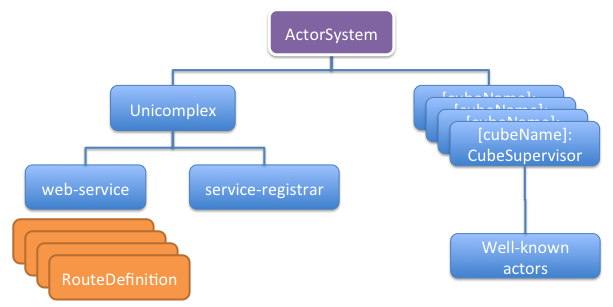
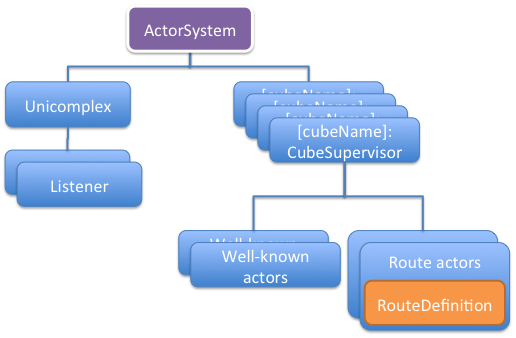
https://jirap.corp.ebay.com/browse/SQUBS-131: Completed documentation changes for singleton route support.

diff --git a/docs/actor-hierarchy.md b/docs/actor-hierarchy.md
@@ -9,12 +9,12 @@ squbs sets up the actor and component hierarchy shown in the above picture to su
 
 * **Unicomplex** - This is the core singleton actor that manages the squbs system. It registers all cubes and communicates with the web-service actor and the cube supervisors for lifecycle management of the system. It is also responsible for starting the web-service and service-registrar actors. Applications or system components can access the ActorRef of Unicomplex by calling `Unicomplex()`
 
-* **web-service** - The web service actor binds with `IO(HTTP)` in the Spray system. By default, it binds port 8080 on address 0.0.0.0 (any interface). However, this can be overridden in application.conf.
+* **Listeners** - The listener are actor that bind with `IO(HTTP)` in the Spray system. They carry the name of the configured listeners in `reference.conf` or `application.conf`. By default, the default-listener binds port 8080 on address 0.0.0.0 (any interface) without using https. However, this can be overridden in `application.conf`. Additional listeners can be configured in `reference.conf` or `application.conf` of the library or application, respectively.
 
-* **service-registrar** - The service registrar is in charge of registering new services. New services are represented by classes extending `RouteDefinition`. Upon registration of a new service, the service registrar will combine the new route with the current route and calculate a new aggregated route for the web service to use in subsequent requests. All registrations are asynchronous so a newly registered service may not get used immediately on subsequent requests. Normally, the timeframe for proper registration is within microseconds or milliseconds at most.
+* **RouteDefinition** - RouteDefinition is itself not an actor, but a route registration in form of a class extending the RouteDefinition trait. The routes in registered services (or RouteDefinitions) are executed by its corresponding route actor.
 
-* **RouteDefinition** - RouteDefinition is not an actor, but a route registration in form of a class extending the RouteDefinition trait. The routes in registered services (or RouteDefinitions) are executed in the context of the web-service actor. Any actors spawned off a route will therefore become a child actor of web-service and will have "web-service" in the actor path.
+* **Route actors** - Actors of type org.squbs.unicomplex.RouteActor created by the CubeSupervisor to host each RouteDefinition. Therefore they becomes children supervised by the corresponding CubeSupervisor they belong to. The route actors are automatically registered against all the listeners they are bound to, allowing request parts from the listener to be dispatched to the route actor.
 
-* **CubeSupervisors** - CubeSupervisors are created directly from the actor system and register themselves with the Unicomplex. One instance of the CubeSupervor is created per cube. They act as the supervisor for any registered (well-known) actor that can be looked up by name and handle errors and restarts for these actors. They are responsible for the lifecycle of these well-known actors. Well-known actors requiring initialization will declare such needs in the squbs-meta.conf file. They will communicate with their parent - the CubeSupervisor for their initialization status. The CubeSupervisor will again communicate lifecycle status and initialization updates to the Unicomplex which maintains the lifecycle state for the whole system. Please refer to [Bootstraping](bootstrap.md) for information about cube and service configuration entries in the squbs-meta.conf and [Runtime Lifecycle & API](lifecycle.md) for lifecycle states and lifecycle status updates. In addition, the cube structure also provides namespacing for well-known actors preventing naming conflicts between well-known actors supplied by differen cubes.
+* **CubeSupervisors** - CubeSupervisors are created directly from the actor system and register themselves with the Unicomplex. One instance of the CubeSupervor is created per cube. They act as the supervisor for any route actor and registered (well-known) actor that can be looked up by name and handle errors and restarts for these actors. They are responsible for the lifecycle of their children. Well-known actors requiring initialization will declare such needs in the squbs-meta.conf file. They will communicate with their parent - the CubeSupervisor for their initialization status. The CubeSupervisor will again communicate lifecycle status and initialization updates to the Unicomplex which maintains the lifecycle state for the whole system. Please refer to [Bootstraping](bootstrap.md) for information about cube and service configuration entries in the squbs-meta.conf and [Runtime Lifecycle & API](lifecycle.md) for lifecycle states and lifecycle status updates. In addition, the cube structure also provides namespacing for well-known actors preventing naming conflicts between well-known actors supplied by differen cubes. Route actors are technically equivalent to well known actors.
 
 * **Well-known actors** - These actors are registered actors that get started by the CubeSupervisor. They register and provide basic startup information such as routers through squbs-meta.conf. Please refer to [Bootstrapping](bootstrap.md) for detailed information about cube configuration. You can provide additional configuration through the cube's reference.conf. Please refer to the [Typesafe Config](https://github.com/typesafehub/config) library documentation for specification and details of reference.conf and application.conf.

diff --git a/docs/bootstrap.md b/docs/bootstrap.md
@@ -133,11 +133,7 @@ Router concepts, examples, and configuration, are documented in the
 
 ##Services
 
-Services extend from org.squbs.unicomplex.RouteDefinition trait and have to provide 2 components.
-
-1. The webContext - a String that uniquely identifies the web context of a request to be dispatched to this service.
-   This webContext must be a lowercase alphanumeric string without any slash ('/') character
-2. The route - A Spray route according to the
+Services extend from org.squbs.unicomplex.RouteDefinition trait, must not take any constructor arguments (zero-argument constructor) and have to provide the route member which is a Spray route according to the
    [Spray documentation](http://spray.io/documentation/1.3.1/spray-routing/key-concepts/routes/).
    
 Service metadata is declared in META-INF/squbs-meta.conf as shown in the following example.
@@ -148,12 +144,21 @@ cube-version = "0.0.2-SNAPSHOT"
 squbs-services = [
   {
     class-name = org.squbs.bottlesvc.BottleSvc
+    web-context = bottles
     
     # The listeners entry is optional, and defaults to 'default-listener'
     listeners = [ default-listener, my-listener ]
   }
 ]
 ```
+
+The class-name parameter identifies the route class. 
+
+The web-context is a string that uniquely identifies the web context of a request to be dispatched to this service. It **MUST NOT** start with a `/` character. It is allowed to be `""` for root context.
+
+Optionally, the listeners parameter declares a list of listeners to bind this service. Listener binding is discussed in the following section, below.
+
+
 ### Listener Binding
 
 A listener is declared in `application.conf` or `reference.conf` usually living in the project's `src/main/resources` directory. Listeners declare interfaces, ports, and security attributes, and name aliases, and are explained in [Configuration](configuration.md)
